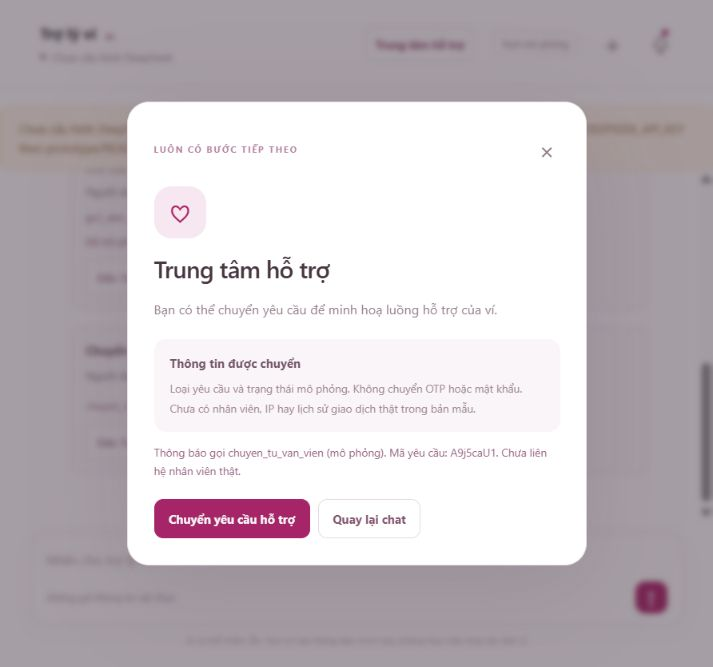
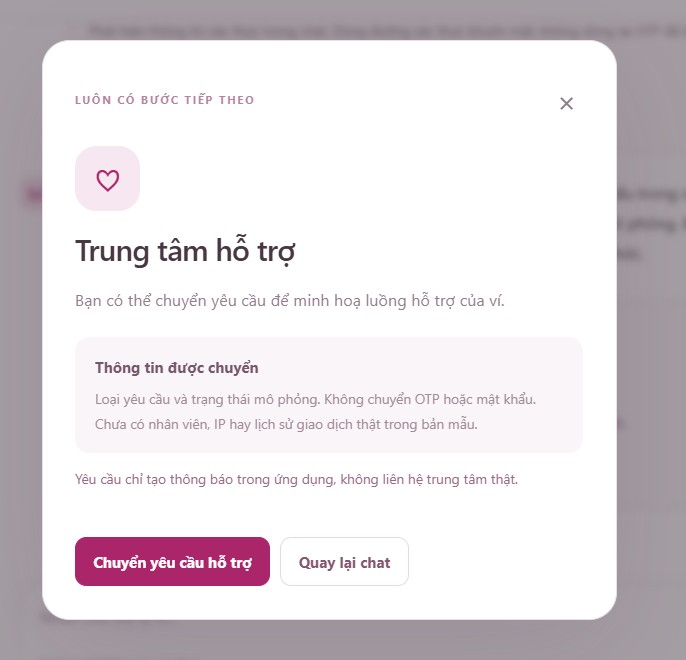
feat: thêm chatbot MEME với DeepSeek, xác thực và hỗ trợ mô phỏng

diff --git a/spec.md b/spec.md
@@ -136,9 +136,21 @@ Thêm:
 - Một mức tự chủ đã đổi lời hứa nào với người dùng.
 
 ## §5. Prototype  (chặng 5)
-- Link hoặc file · công cụ · phần nào mock · có lời gọi AI thật không.
-- 1–2 ảnh có đánh số; mỗi số: thể hiện gì · nguyên tắc HAX/PAIR nào · mức tự chủ nào.
-- Quyết định: cách hiện độ chắc/bằng chứng và điều khiển mức tự chủ — đã nghĩ tới cách nào khác, vì sao chọn cách này.
+
+- **Chạy ứng dụng:** xem [prototype/README.md](prototype/README.md). Điền API key DeepSeek vào `.env` cục bộ, chạy `python server.py` trong thư mục `prototype`, mở `http://127.0.0.1:8765`. Giao diện HTML/CSS/JavaScript và máy chủ Python do Codex tạo; không cần đăng nhập. API key chỉ ở máy chủ, không được đưa vào code nộp hoặc giao diện.
+- **Phần thật và phần mô phỏng:** DeepSeek đọc tin nhắn tự do và lịch sử để trả lời thật, đồng thời đề xuất function call; không còn nút chọn tình huống. Tất cả tool ví là giả định: máy chủ chỉ trả kết quả mô phỏng để giao diện hiện thông báo. Không giữ/nhả tiền, không khoá ví, không xác minh thật và không gửi thông báo tới nhân viên. Nội dung chat được gửi tới DeepSeek, vì vậy chỉ dùng dữ liệu dựng. Phiên chat nằm trong bộ nhớ máy chủ, không ghi vào file.
+- **Các mức tự chủ nhìn thấy được:** `giu_giao_dich`, `chuyen_tu_van_vien` và `yeu_cau_xac_minh` tự tạo thông báo. Thẻ xác thực có link mở màn hình khuôn mặt/OTP; khi bấm, ứng dụng phát thông báo tool con tương ứng. `khoa_vi` chờ chuyên viên chống gian lận, không có nút khách tự duyệt. `nha_giao_dich` bị chặn tại máy chủ và không được cung cấp cho model.
+- **Demo 4 phút:** nhập yêu cầu hỗ trợ rồi sửa thông tin ở lượt sau để thử ngữ cảnh; nhập lời tự nhận là kỹ thuật viên yêu cầu nhả tiền để thử từ chối/chuyển hỗ trợ. Dùng OTP/mật khẩu giả của bài lab để kiểm tra che dữ liệu, nút “Tiếp tục xác thực khuôn mặt” → màn hình bảo mật → thông báo `gui_man_hinh_khuon_mat`. Bấm “Đến Trung tâm hỗ trợ” → “Chuyển yêu cầu hỗ trợ” để thấy thông báo `chuyen_tu_van_vien`. Không dùng dữ liệu thật. Đường bảo vệ dữ liệu và nút hỗ trợ chạy cục bộ kể cả khi thiếu API key; chat tự do khác dùng DeepSeek.
+- **Ảnh và nguyên tắc:** khi chụp 1–2 ảnh demo, đánh số ① vào nhãn AI / Tool mô phỏng (**G1**); ② vào lý do và trạng thái tool (**G11**); ③ vào nút tiếp tục xác thực / Trung tâm hỗ trợ (**G10**).
+- **Quyết định hiển thị:** dùng giải thích và trạng thái xử lý thay cho phần trăm độ chắc chưa được kiểm chứng. Thông báo có tên tool, lý do, trạng thái; các link chỉ đến màn hình nội bộ do ứng dụng kiểm soát, không dùng URL model tự bịa. Đã loại cho model/khách tự truyền cờ “đã duyệt” để khoá ví hoặc nhả tiền. Màn hình xác thực nói rõ mô phỏng, không đánh đồng với xác minh danh tính thật.
+
+**Ảnh 1 — Kết quả mô phỏng xác thực:** tên tool và giới hạn ở thẻ kết quả thể hiện **G11**; link Trung tâm hỗ trợ thể hiện đường lui **G10**. Không có danh tính nào đã được xác minh thật.
+
+![Ảnh 1 kết quả xác thực mô phỏng](prototype/screenshots/verification.jpg)
+
+**Ảnh 2 — Chuyển đến Trung tâm hỗ trợ:** nút chuyển yêu cầu và mã thông báo thể hiện **G10/G11**. Hai ảnh được chụp từ phiên thử không có API key; không chuyển dữ liệu thử sang DeepSeek.
+
+![Ảnh 2 thông báo chuyển hỗ trợ](prototype/screenshots/support.jpg)
 
 ## §6. Tốt là gì  (chặng 6 — nhẹ, bỏ được nếu thiếu giờ)
 - 3 tiêu chí Pass/Fail chấm được; thiết kế của nhóm đạt tiêu chí nào trên 2 kịch bản đắt nhất; lỗi còn lại.
